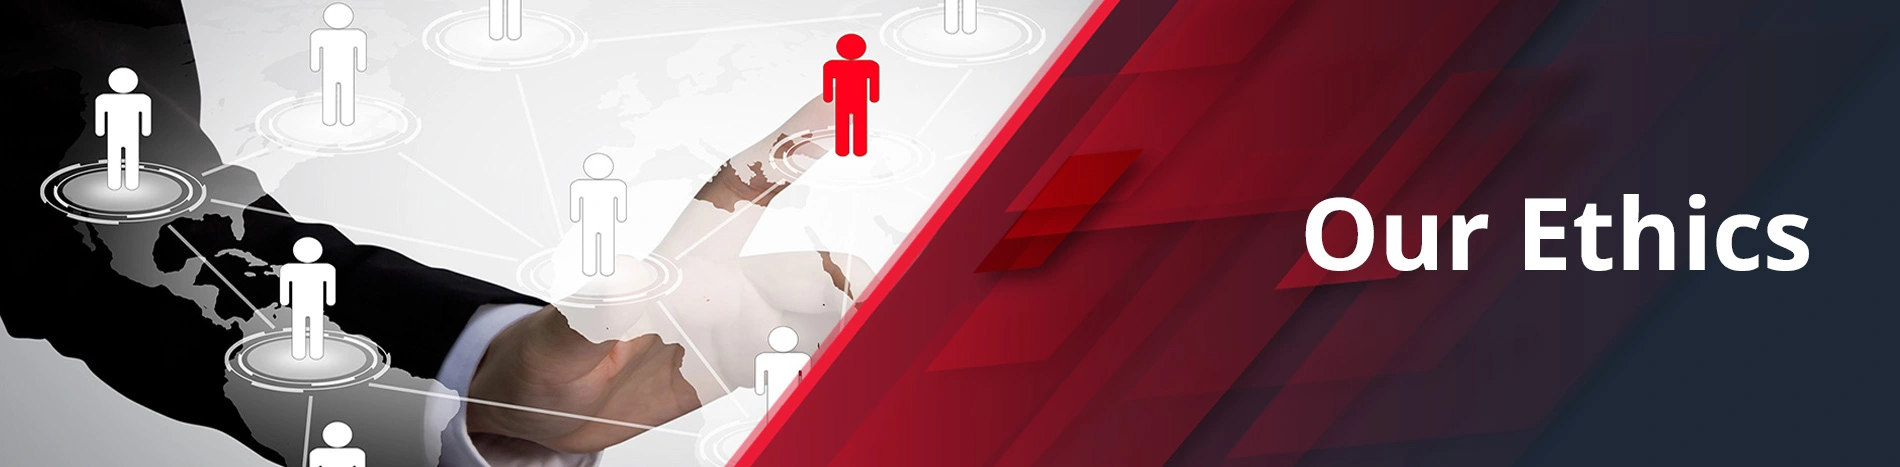
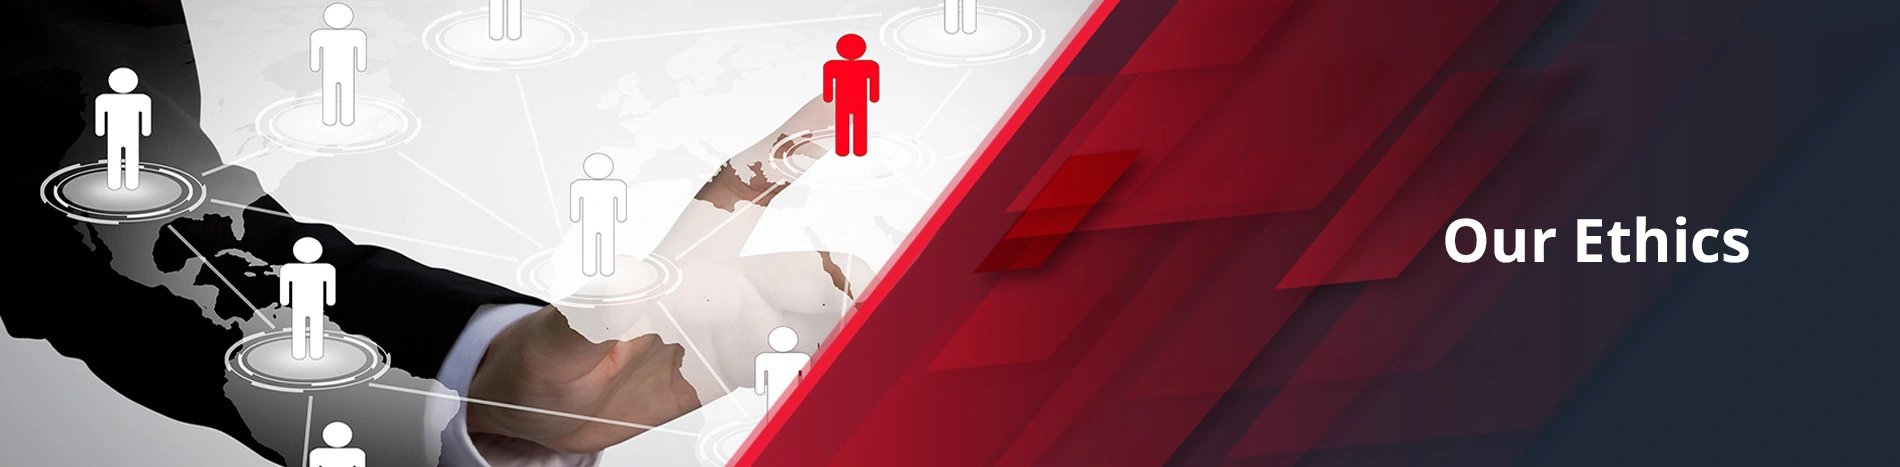
updt

Changed region(s): [[0.6832, 0.4197, 0.9626, 0.5996]]

diff --git a/wwwroot/style.css b/wwwroot/style.css
@@ -3137,3 +3137,6 @@ body.page #main-content {
         padding: 0px 0 0px 0 !important;
     }
 }
+.font-40{
+    font-size:40px !important
+}
